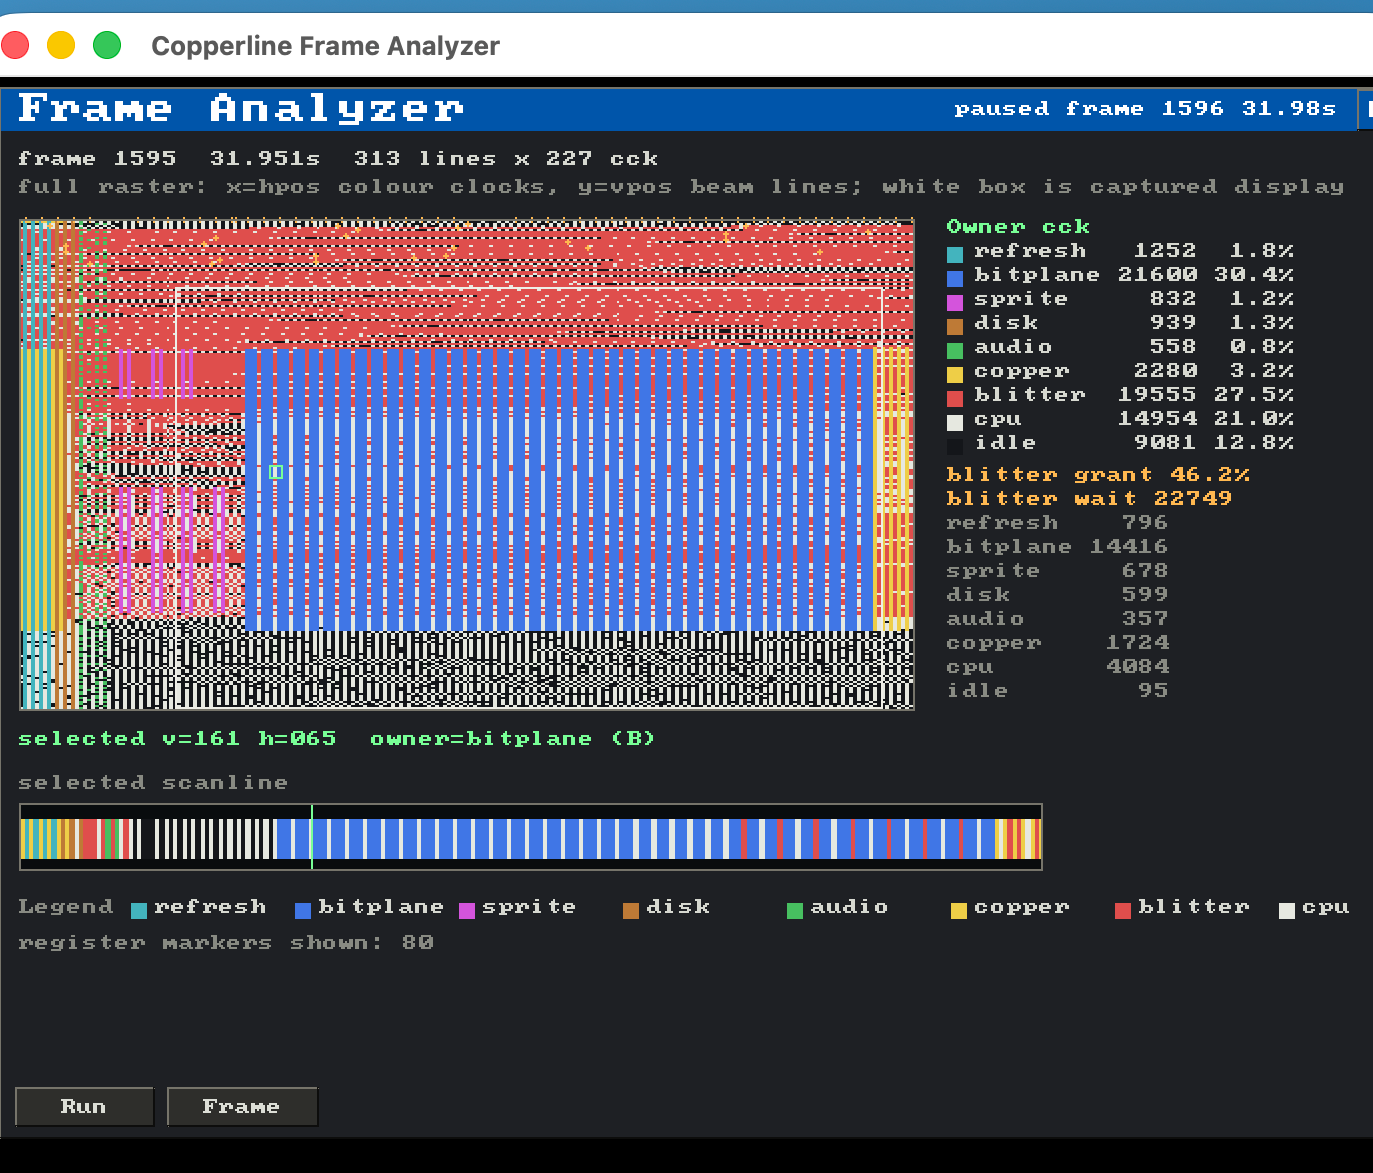
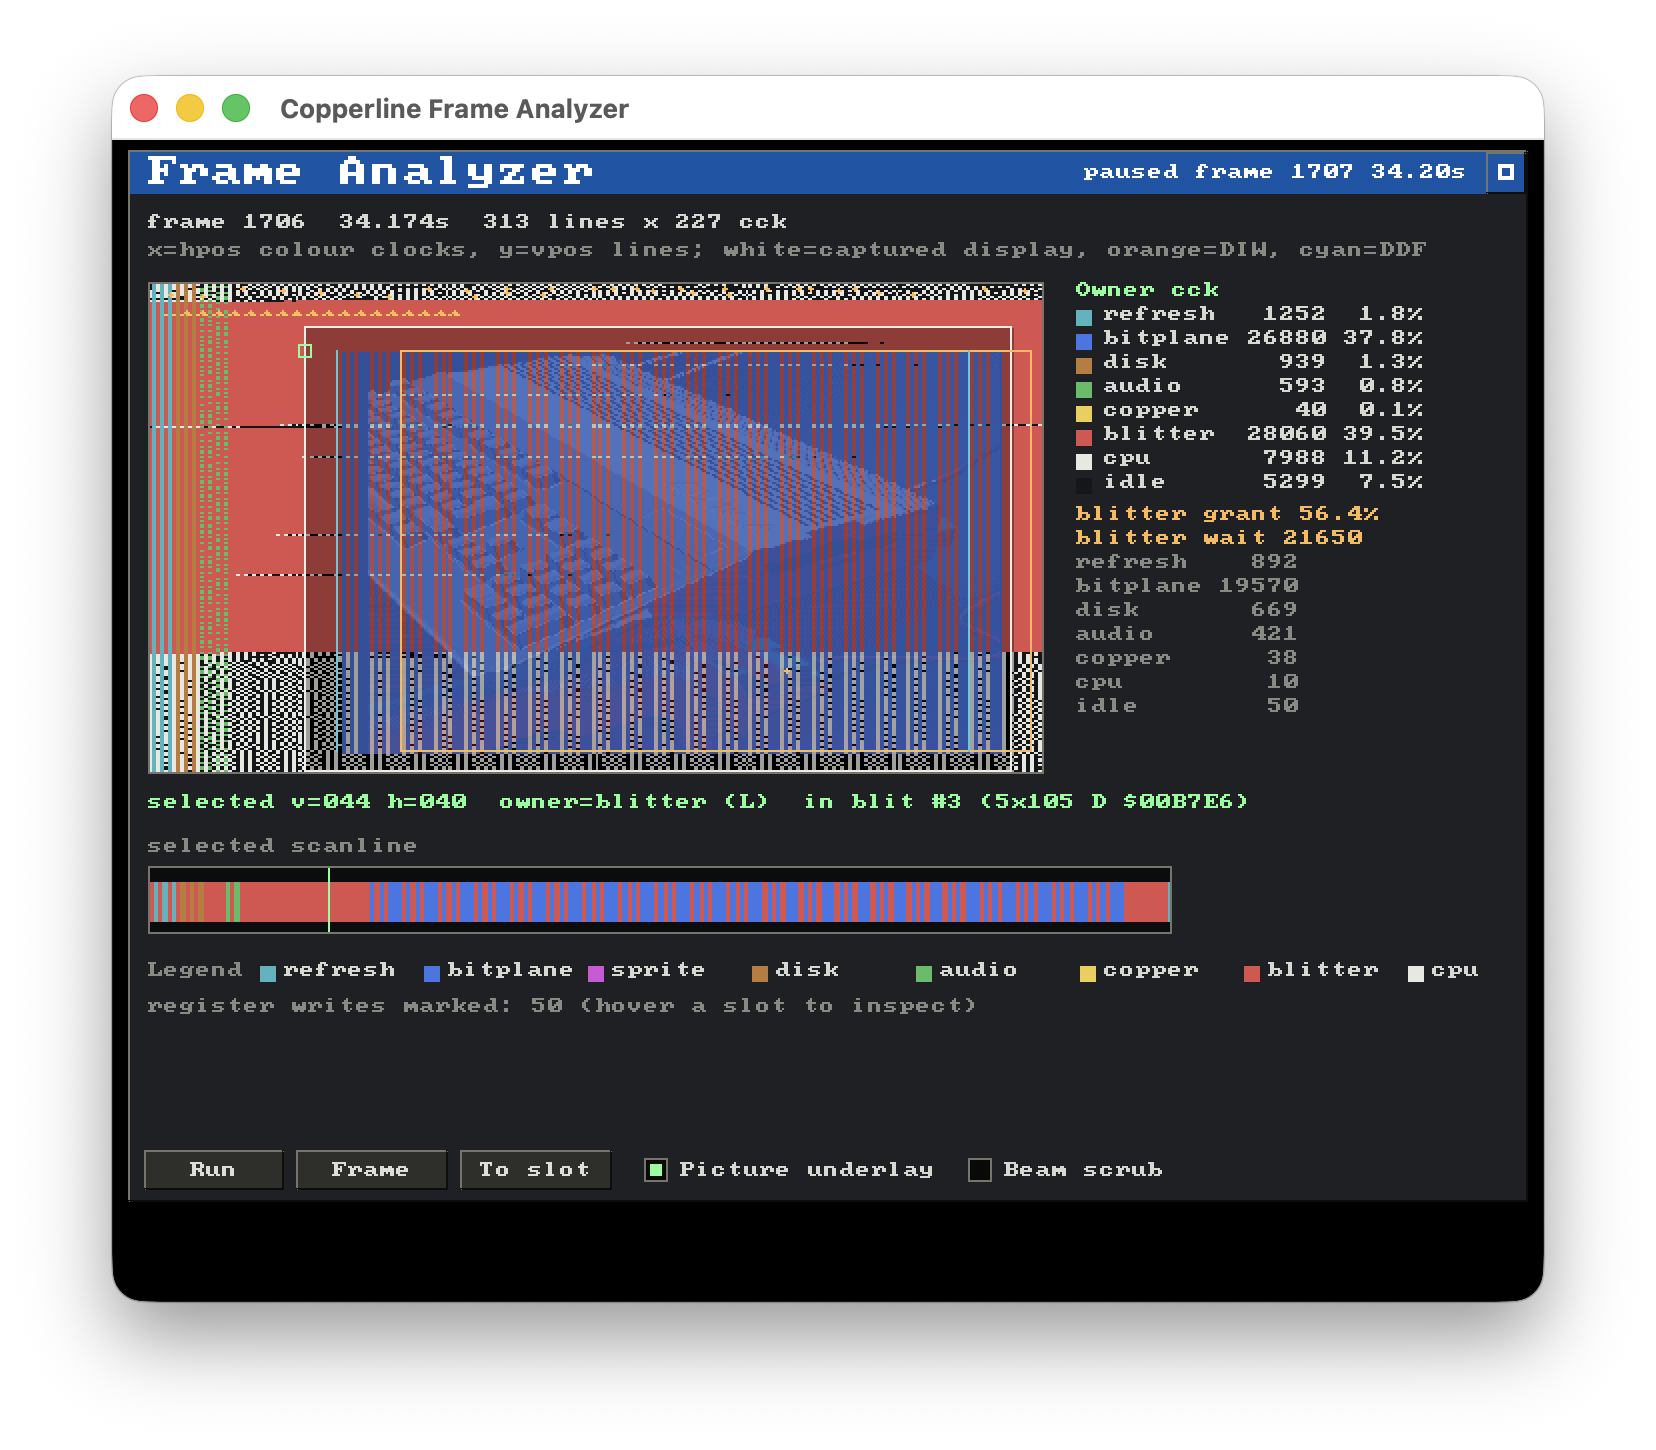
Add debugger screen gallery and refresh screenshots
Replace the 0.5.0-era debugger shot with a tabbed gallery of six current
screens (CPU, Video, Audio, IO Map, Break, Console), styled after the
debugger's own tab strip and sharing the download section's tab script.

Swap in a newer frame analyzer capture and update the owner tally to
match it, add HAMazing and Inside demo captures, and add Hard Disk and
Zorro plugin-board shots to the launcher section.

diff --git a/index.html b/index.html
@@ -224,9 +224,10 @@
     <div class="section__head">
       <span class="kicker">// screenshots</span>
       <h2>See it run</h2>
-      <p>Real captures from the emulator window - chrome, status bar and all. Save a still
-         to PNG, or record the screen to a lossless AVI - both locked to the emulated clock,
-         so even a warp-speed capture plays back at the right speed.</p>
+      <p>Real captures from the emulator - some from the window, chrome and status bar
+         and all, some grabbed headless from a scripted run. Save a still to PNG, or record
+         the screen to a lossless AVI - both locked to the emulated clock, so even a
+         warp-speed capture plays back at the right speed.</p>
     </div>
 
     <figure class="shot shot--feature">
@@ -242,6 +243,19 @@
       <figure class="shot">
         <img src="assets/shot-dancer.png" alt="Spaceballs State of the Art demo running in Copperline" loading="lazy">
         <figcaption><strong>State of the Art.</strong> Spaceballs' OCS demo - timing-sensitive, at real speed.</figcaption>
+      </figure>
+    </div>
+
+    <div class="shot-row shot-row--after">
+      <figure class="shot">
+        <img src="assets/shot-hamazing.png" alt="A scene from Desire's HAMazing demo: a robot and a toy monkey on a couch, lit by a swinging lamp, rendered in Hold-And-Modify" loading="lazy">
+        <figcaption><strong>HAMazing.</strong> Desire's Hold-And-Modify demo - a swinging
+           lamp lights the scene, all in HAM.</figcaption>
+      </figure>
+      <figure class="shot">
+        <img src="assets/shot-inside.png" alt="A scene from Desire's Inside demo: an Amiga 500 motherboard drawn as pixel art, with the CPU, Paula, Fat Agnus, ROM and RAM banks labelled" loading="lazy">
+        <figcaption><strong>Inside.</strong> Desire's pixel-art A500 motherboard, chip by
+           chip - the machine drawing its own insides.</figcaption>
       </figure>
     </div>
 
@@ -292,6 +306,19 @@
       </div>
     </div>
 
+    <div class="shot-row shot-row--after">
+      <figure class="shot">
+        <img src="assets/shot-launcher-storage.png" alt="The launcher's Hard Disk tab on an A1200 profile, with an IDE master image selected and a SCSI controller selector with seven unit slots" loading="lazy">
+        <figcaption><strong>Hard Disk.</strong> IDE master and slave, and an A2091 / A4091
+           SCSI controller with up to seven units.</figcaption>
+      </figure>
+      <figure class="shot">
+        <img src="assets/shot-launcher-zorro.png" alt="The launcher's Zorro tab on an A500 profile, showing an external WASM plugin board's declared settings: mode, verbose, MTU, boot ROM and MAC address" loading="lazy">
+        <figcaption><strong>Zorro.</strong> An external WASM plugin board's own settings -
+           declared by the plugin, drawn by the launcher.</figcaption>
+      </figure>
+    </div>
+
     <ul class="dbg-tabs" aria-label="What the launcher configures">
       <li><span class="dbg-tabs__name">Profiles</span> A1000, A500 / OCS / +, A600, A1200, CDTV and CD32 - start from a real machine and adjust.</li>
       <li><span class="dbg-tabs__name">Chipset &amp; CPU</span> Agnus / Denise revisions, 68000 - 68040 selection, clock, caches and FPU.</li>
@@ -317,11 +344,50 @@
     </div>
 
     <div class="debugger">
-      <figure class="debugger__shot">
-        <img src="assets/shot-debugger.png" alt="The Copperline debugger window on the CPU tab, showing the register file, a live 68000 disassembly, and the transport controls including the reverse Frame, Step and Run buttons" loading="lazy">
-        <figcaption><strong>The CPU tab.</strong> Register file, live disassembly that
-           follows the PC, and the transport row - with reverse controls on the right.</figcaption>
-      </figure>
+      <div class="dbg-gallery">
+        <div class="dbg-gallery__tabs" role="tablist" aria-label="Debugger screens">
+          <button class="dbg-tab" id="dbgtab-cpu" role="tab" aria-selected="true" aria-controls="dbgshot-cpu">CPU</button>
+          <button class="dbg-tab" id="dbgtab-video" role="tab" aria-selected="false" aria-controls="dbgshot-video" tabindex="-1">Video</button>
+          <button class="dbg-tab" id="dbgtab-audio" role="tab" aria-selected="false" aria-controls="dbgshot-audio" tabindex="-1">Audio</button>
+          <button class="dbg-tab" id="dbgtab-iomap" role="tab" aria-selected="false" aria-controls="dbgshot-iomap" tabindex="-1">IO Map</button>
+          <button class="dbg-tab" id="dbgtab-break" role="tab" aria-selected="false" aria-controls="dbgshot-break" tabindex="-1">Break</button>
+          <button class="dbg-tab" id="dbgtab-console" role="tab" aria-selected="false" aria-controls="dbgshot-console" tabindex="-1">Console</button>
+        </div>
+
+        <figure class="dbg-gallery__shot" id="dbgshot-cpu" role="tabpanel" aria-labelledby="dbgtab-cpu">
+          <img src="assets/shot-dbg-cpu.png" alt="The debugger's CPU tab: the register file, decoded status register, a live 68000 disassembly at the PC, and transport controls including the reverse Frame, Step and Run buttons">
+          <figcaption><strong>The CPU tab.</strong> Registers you can poke, decoded SR
+             flags, a live disassembly that follows the PC - and the reverse transport
+             on the right.</figcaption>
+        </figure>
+        <figure class="dbg-gallery__shot" id="dbgshot-video" role="tabpanel" aria-labelledby="dbgtab-video" hidden>
+          <img src="assets/shot-dbg-video.png" alt="The debugger's Video tab: a decoded BPLCON0, per-plane and per-sprite isolation toggles, sprite DMA positions, and the 256-entry palette" loading="lazy">
+          <figcaption><strong>The Video tab.</strong> Hide individual planes and sprites
+             in the picture without touching the emulation - with per-sprite decode and
+             the live 256-entry palette.</figcaption>
+        </figure>
+        <figure class="dbg-gallery__shot" id="dbgshot-audio" role="tabpanel" aria-labelledby="dbgtab-audio" hidden>
+          <img src="assets/shot-dbg-audio.png" alt="The debugger's Audio tab: Paula's four channels with decoded DMA state, latches and pointers, per-channel mute buttons and live oscilloscopes, plus a CD-DA row" loading="lazy">
+          <figcaption><strong>The Audio tab.</strong> Paula's four channels with their DMA
+             state machines decoded, per-channel mutes and live scopes - and a fifth row
+             for CD-DA.</figcaption>
+        </figure>
+        <figure class="dbg-gallery__shot" id="dbgshot-iomap" role="tabpanel" aria-labelledby="dbgtab-iomap" hidden>
+          <img src="assets/shot-dbg-iomap.png" alt="The debugger's IO Map tab: the custom register bank with live values, with BPLCON0 selected and its bits decoded by name" loading="lazy">
+          <figcaption><strong>The IO Map tab.</strong> Every custom-bank register with its
+             live value - here BPLCON0, decoded bit by bit.</figcaption>
+        </figure>
+        <figure class="dbg-gallery__shot" id="dbgshot-break" role="tabpanel" aria-labelledby="dbgtab-break" hidden>
+          <img src="assets/shot-dbg-break.png" alt="The debugger's Break tab: a PC breakpoint, a memory watchpoint, and a DMACON chipset-register watch that stops on write" loading="lazy">
+          <figcaption><strong>The Break tab.</strong> PC breakpoints, memory watchpoints
+             and chipset-register watches - here DMACON, stopping on write.</figcaption>
+        </figure>
+        <figure class="dbg-gallery__shot" id="dbgshot-console" role="tabpanel" aria-labelledby="dbgtab-console" hidden>
+          <img src="assets/shot-dbg-console.png" alt="The Copperline debugger console: a breakpoint is set and hit, the stop is reported with PC, beam position and frame, and the code at the stop is disassembled" loading="lazy">
+          <figcaption><strong>The console.</strong> GDB-flavoured, in its own window -
+             set a breakpoint, run to it, disassemble at the stop.</figcaption>
+        </figure>
+      </div>
 
       <div class="debugger__panel">
         <span class="card__tag">reverse debugging</span>
@@ -356,13 +422,6 @@
       <li><span class="dbg-tabs__name">IO Map</span> Every custom-bank register with its live value, and the selected register's bits decoded by name.</li>
       <li><span class="dbg-tabs__name">Break</span> Conditional, counted PC breakpoints plus memory and chipset-register watchpoints, whichever bus master writes.</li>
     </ul>
-
-    <figure class="shot shot--feature">
-      <img src="assets/shot-audio.png" alt="The Copperline debugger on the Audio tab, showing Paula's four audio channels with decoded DMA state, latches and pointers, per-channel mute buttons and oscilloscopes, and a CD-DA row" loading="lazy">
-      <figcaption><strong>The Audio tab.</strong> Paula's four channels with their DMA
-         state machines decoded, per-channel mutes and live scopes - and a fifth row
-         for CD-DA.</figcaption>
-    </figure>
   </section>
 
   <hr class="copperline">
@@ -379,10 +438,10 @@
 
     <div class="analyzer">
       <figure class="analyzer__shot">
-        <img src="assets/shot-analyzer.png" alt="The Copperline frame analyzer window: a full-raster map of one frame with every colour clock coloured by its chip-bus owner, a per-owner cycle tally with percentages, blitter grant and wait figures, and a selected-scanline strip" loading="lazy">
+        <img src="assets/shot-analyzer.png" alt="The Copperline frame analyzer window: a full-raster map of one frame with every colour clock coloured by its chip-bus owner and the captured picture ghosted underneath, a per-owner cycle tally with percentages, blitter grant and wait figures, and a selected-scanline strip" loading="lazy">
         <figcaption><strong>One captured frame.</strong> 313 beam lines by 227 colour clocks,
-           every cycle coloured by the bus master that owned it - here bitplane and blitter DMA
-           dominate a busy effect.</figcaption>
+           every cycle coloured by the bus master that owned it, the picture ghosted
+           underneath - here a heavy blit is taking more of the bus than bitplane DMA.</figcaption>
       </figure>
 
       <div class="analyzer__panel">
@@ -393,19 +452,18 @@
            frame, so a dropped line or a blit that starves the CPU is visible directly.</p>
         <p>It breaks out blitter grant against wait - the cycles the blitter held the bus
            versus the cycles it stalled behind higher-priority DMA - and you can click any
-           cycle to read back its line, hpos and owner.</p>
+           cycle to read back its line, hpos and owner, down to which blit it belongs to.</p>
 
         <p class="owner-list__cap">// chip-bus owners, one frame</p>
         <ul class="owner-list" aria-label="Per-owner chip-bus cycle share for one captured frame">
-          <li style="--c:#4076e6"><span class="owner-list__sw"></span><span class="owner-list__name">bitplane</span><span class="owner-list__bar"><i style="width:30.4%"></i></span><span class="owner-list__pct">30.4%</span></li>
-          <li style="--c:#de4e4c"><span class="owner-list__sw"></span><span class="owner-list__name">blitter</span><span class="owner-list__bar"><i style="width:27.5%"></i></span><span class="owner-list__pct">27.5%</span></li>
-          <li style="--c:#e6e8e0"><span class="owner-list__sw"></span><span class="owner-list__name">cpu</span><span class="owner-list__bar"><i style="width:21.0%"></i></span><span class="owner-list__pct">21.0%</span></li>
-          <li style="--c:#39404a"><span class="owner-list__sw"></span><span class="owner-list__name">idle</span><span class="owner-list__bar"><i style="width:12.8%"></i></span><span class="owner-list__pct">12.8%</span></li>
-          <li style="--c:#eece48"><span class="owner-list__sw"></span><span class="owner-list__name">copper</span><span class="owner-list__bar"><i style="width:3.2%"></i></span><span class="owner-list__pct">3.2%</span></li>
+          <li style="--c:#de4e4c"><span class="owner-list__sw"></span><span class="owner-list__name">blitter</span><span class="owner-list__bar"><i style="width:39.5%"></i></span><span class="owner-list__pct">39.5%</span></li>
+          <li style="--c:#4076e6"><span class="owner-list__sw"></span><span class="owner-list__name">bitplane</span><span class="owner-list__bar"><i style="width:37.8%"></i></span><span class="owner-list__pct">37.8%</span></li>
+          <li style="--c:#e6e8e0"><span class="owner-list__sw"></span><span class="owner-list__name">cpu</span><span class="owner-list__bar"><i style="width:11.2%"></i></span><span class="owner-list__pct">11.2%</span></li>
+          <li style="--c:#39404a"><span class="owner-list__sw"></span><span class="owner-list__name">idle</span><span class="owner-list__bar"><i style="width:7.5%"></i></span><span class="owner-list__pct">7.5%</span></li>
           <li style="--c:#44b4be"><span class="owner-list__sw"></span><span class="owner-list__name">refresh</span><span class="owner-list__bar"><i style="width:1.8%"></i></span><span class="owner-list__pct">1.8%</span></li>
           <li style="--c:#be7a36"><span class="owner-list__sw"></span><span class="owner-list__name">disk</span><span class="owner-list__bar"><i style="width:1.3%"></i></span><span class="owner-list__pct">1.3%</span></li>
-          <li style="--c:#d454dc"><span class="owner-list__sw"></span><span class="owner-list__name">sprite</span><span class="owner-list__bar"><i style="width:1.2%"></i></span><span class="owner-list__pct">1.2%</span></li>
           <li style="--c:#48be60"><span class="owner-list__sw"></span><span class="owner-list__name">audio</span><span class="owner-list__bar"><i style="width:0.8%"></i></span><span class="owner-list__pct">0.8%</span></li>
+          <li style="--c:#eece48"><span class="owner-list__sw"></span><span class="owner-list__name">copper</span><span class="owner-list__bar"><i style="width:0.1%"></i></span><span class="owner-list__pct">0.1%</span></li>
         </ul>
       </div>
     </div>
@@ -415,6 +473,7 @@
       <li><span class="dbg-tabs__name">Owner tally</span> Per-master cycle counts and percentages for the frame - refresh, bitplane, sprite, disk, audio, Copper, blitter, CPU and idle.</li>
       <li><span class="dbg-tabs__name">Blitter grant / wait</span> How much of the frame the blitter was granted the bus, and the cycles it spent waiting behind each DMA channel.</li>
       <li><span class="dbg-tabs__name">Selected scanline</span> Pin a line and replay its bus ownership one colour clock at a time, with the picked slot's owner decoded.</li>
+      <li><span class="dbg-tabs__name">Picture underlay</span> The frame's own picture ghosted beneath the ownership map, so you can see what each burst of DMA was drawing.</li>
       <li><span class="dbg-tabs__name">Register markers</span> Chipset register writes overlaid on the raster at the position where they landed.</li>
     </ul>
   </section>
@@ -838,31 +897,40 @@ cargo build <span class="c-flag">--release</span>
 
 <script>
   (function () {
-    var tablist = document.querySelector('.tabs__list');
-    if (!tablist) return;
+    // Shared tablist behaviour: click to select, arrow keys to move.
+    function initTabs(tablist) {
+      var tabs = Array.prototype.slice.call(tablist.querySelectorAll('[role="tab"]'));
 
-    var tabs = Array.prototype.slice.call(tablist.querySelectorAll('.tab'));
+      function selectTab(tab, focus) {
+        tabs.forEach(function (t) {
+          var selected = t === tab;
+          t.setAttribute('aria-selected', selected ? 'true' : 'false');
+          t.tabIndex = selected ? 0 : -1;
+          var panel = document.getElementById(t.getAttribute('aria-controls'));
+          if (panel) panel.hidden = !selected;
+        });
+        if (focus) tab.focus();
+      }
 
-    function selectTab(tab, focus) {
-      tabs.forEach(function (t) {
-        var selected = t === tab;
-        t.setAttribute('aria-selected', selected ? 'true' : 'false');
-        t.tabIndex = selected ? 0 : -1;
-        var panel = document.getElementById(t.getAttribute('aria-controls'));
-        if (panel) panel.hidden = !selected;
+      tabs.forEach(function (tab, i) {
+        tab.addEventListener('click', function () { selectTab(tab, false); });
+        tab.addEventListener('keydown', function (e) {
+          var dir = e.key === 'ArrowRight' ? 1 : e.key === 'ArrowLeft' ? -1 : 0;
+          if (!dir) return;
+          e.preventDefault();
+          selectTab(tabs[(i + dir + tabs.length) % tabs.length], true);
+        });
       });
-      if (focus) tab.focus();
+
+      return { tabs: tabs, select: selectTab };
     }
 
-    tabs.forEach(function (tab, i) {
-      tab.addEventListener('click', function () { selectTab(tab, false); });
-      tab.addEventListener('keydown', function (e) {
-        var dir = e.key === 'ArrowRight' ? 1 : e.key === 'ArrowLeft' ? -1 : 0;
-        if (!dir) return;
-        e.preventDefault();
-        selectTab(tabs[(i + dir + tabs.length) % tabs.length], true);
-      });
-    });
+    var gallery = document.querySelector('.dbg-gallery__tabs');
+    if (gallery) initTabs(gallery);
+
+    var platformTabs = document.querySelector('.tabs__list');
+    if (!platformTabs) return;
+    var dl = initTabs(platformTabs);
 
     // Auto-detect the visitor's OS and pre-select the matching tab.
     var ua = (navigator.userAgent || '').toLowerCase();
@@ -875,8 +943,8 @@ cargo build <span class="c-flag">--release</span>
     } else if (/mac/.test(platform) || ua.indexOf('mac os') !== -1) {
       os = 'macos';
     }
-    var match = tabs.filter(function (t) { return t.getAttribute('data-os') === os; })[0];
-    if (match) selectTab(match, false);
+    var match = dl.tabs.filter(function (t) { return t.getAttribute('data-os') === os; })[0];
+    if (match) dl.select(match, false);
   })();
 
   // Keep the release version in the download snippets current. The static

diff --git a/style.css b/style.css
@@ -310,6 +310,7 @@ img { max-width: 100%; display: block; }
   display: grid; gap: 1.6rem;
   grid-template-columns: repeat(auto-fit, minmax(300px, 1fr));
 }
+.shot-row--after { margin-top: 1.6rem; }
 
 /* status bar callout */
 .statusbar-callout {
@@ -341,15 +342,37 @@ img { max-width: 100%; display: block; }
 @media (min-width: 880px) {
   .debugger { grid-template-columns: 1.05fr 0.95fr; gap: 2.4rem; }
 }
-.debugger__shot { margin: 0; }
-.debugger__shot img {
+/* debugger screen gallery, styled after the debugger's own tab strip */
+.dbg-gallery { min-width: 0; }
+.dbg-gallery__tabs {
+  display: flex; flex-wrap: wrap; gap: 0.35rem;
+  padding: 0.3rem; margin-bottom: 1rem;
+  border: 1px solid var(--line); border-radius: 10px;
+  background: rgba(255,255,255,0.02);
+}
+.dbg-tab {
+  flex: 1 1 auto; min-width: 60px;
+  padding: 0.45rem 0.6rem; border: 0; border-radius: 7px; cursor: pointer;
+  font-family: var(--font-mono); font-size: 0.82rem; letter-spacing: 0.02em;
+  color: var(--ink-soft); background: transparent;
+  transition: background 0.15s ease, color 0.15s ease;
+}
+.dbg-tab:hover { color: var(--ink); background: rgba(255,255,255,0.03); }
+.dbg-tab[aria-selected="true"] {
+  color: var(--copper-hi); background: var(--surface-2);
+  box-shadow: inset 0 0 0 1px var(--line);
+}
+.dbg-tab:focus-visible { outline: 2px solid var(--blue); outline-offset: 2px; }
+.dbg-gallery__shot { margin: 0; }
+.dbg-gallery__shot[hidden] { display: none; }
+.dbg-gallery__shot img {
   width: 100%; border-radius: var(--radius); border: 1px solid var(--line);
   box-shadow: 0 24px 60px rgba(0,0,0,0.55);
 }
-.debugger__shot figcaption {
+.dbg-gallery__shot figcaption {
   margin-top: 0.8rem; color: var(--ink-mute); font-size: 0.92rem;
 }
-.debugger__shot figcaption strong { color: var(--ink-soft); font-weight: 600; }
+.dbg-gallery__shot figcaption strong { color: var(--ink-soft); font-weight: 600; }
 
 .debugger__panel {
   background: linear-gradient(180deg, var(--surface-2), var(--surface));